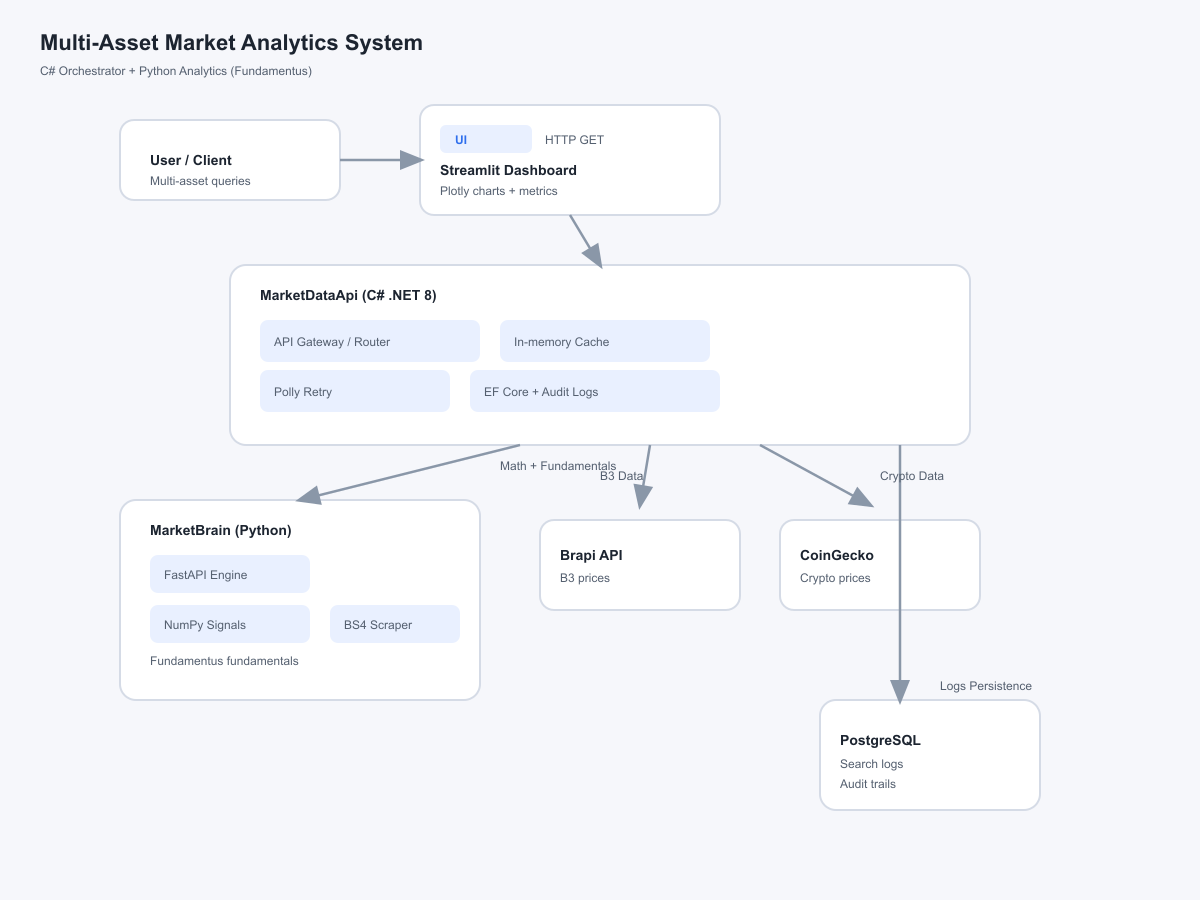
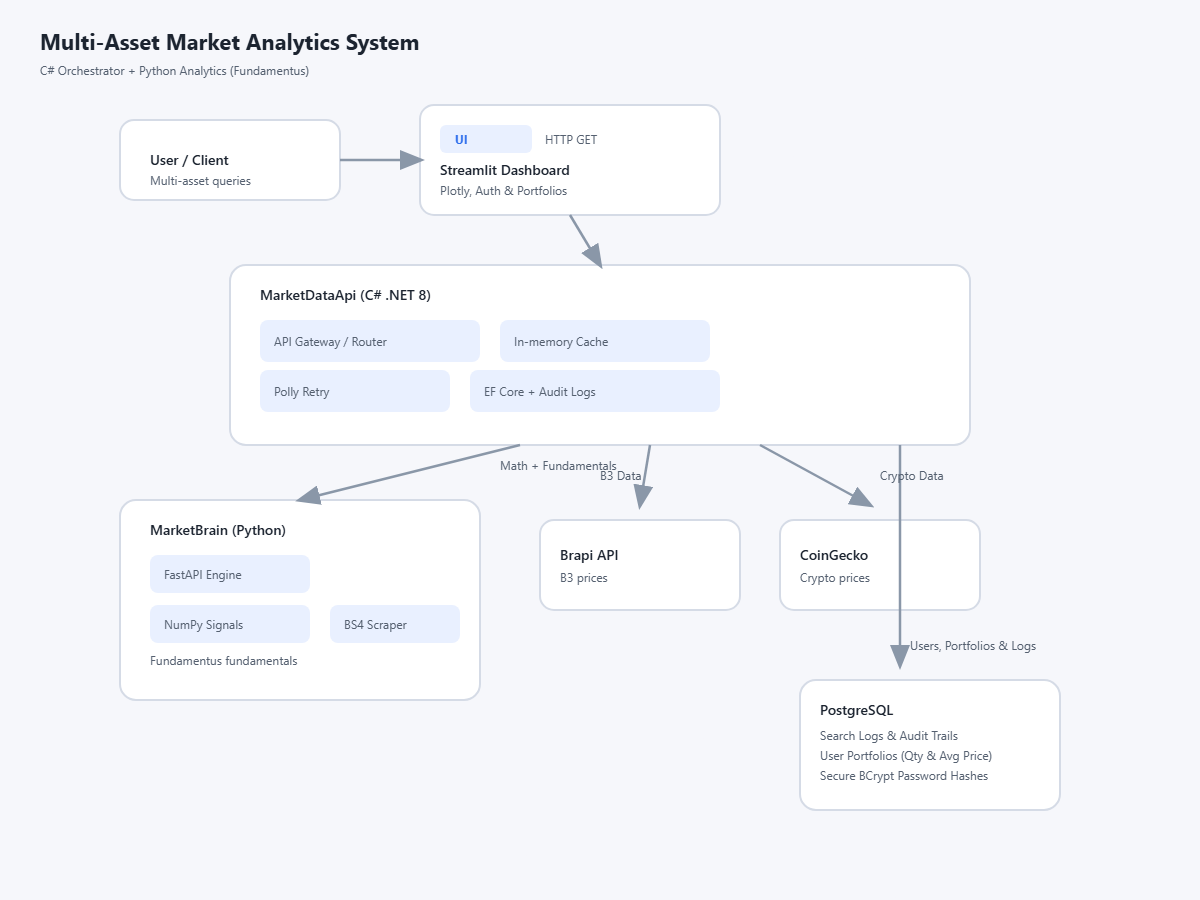
docs: update architecture diagram and README with portfolio features

diff --git a/README.md b/README.md
@@ -1,6 +1,6 @@
 # 📊 Multi-Asset Market Analytics System
 
-A production-style, polyglot microservices system to **fetch, persist, and analyze** both **Cryptocurrencies** and **B3 Stocks/REITs** in near real-time.
+A production-style, polyglot microservices system to **fetch, persist, and analyze** both **Cryptocurrencies** and **B3 Stocks/REITs** in near real-time, featuring secure **User Portfolios (Wallets)** and a **Dynamic Analytics Dashboard**.
 
 ## 🧭 Overview
 
@@ -11,9 +11,11 @@ This project follows strict **Separation of Concerns** by splitting transactiona
 ![Architecture Diagram](docs/architecture-clean.png)
 
 1. **Orchestrator & API Gateway (C# / ASP.NET Core 8)**
-   - Acts as the single entry point for the frontend, routing requests using the Factory Pattern (`IMarketDataService`).
+   - Acts as the single entry point, routing requests using the Factory Pattern (`IMarketDataService`).
    - Handles real-time data ingestion (CoinGecko for crypto, Brapi for B3).
    - **Tolerant Reader Proxy:** Proxies fundamental data requests securely to the internal Python engine.
+   - **Secure Authentication:** Manages user registration and sign-in using `BCrypt.Net-Next` to securely salt and hash passwords before storing them.
+   - **Portfolio Management:** Orchestrates user assets. Whenever a user buys more of an existing asset, the API automatically calculates the **Weighted Average Price** (Cost Basis) and consolidates holdings.
    - Persistence, audit logging, and in-memory caching (up to 10 minutes for fundamentals) to prevent rate-limiting.
    - Resilient HTTP clients configured with **Polly**.
 
@@ -24,16 +26,21 @@ This project follows strict **Separation of Concerns** by splitting transactiona
    - **Trading Signals:** Computes trend, percentage change, and volatility using NumPy.
 
 3. **Data Visualization (Python / Streamlit)**
-   - Interactive dashboard with multi-asset comparisons and Plotly charts.
+   - **Interactive User Authentication:** Login and signup forms right in the sidebar to secure personalized dashboards.
+   - **Dynamic Portfolio Dashboard (The Wallet):** Fetches the user's active holdings from the database, calculating real-time portfolio value and total profit/loss (P&L %) using live market prices.
+   - **Asset Segregation:** Displays assets cleanly divided into **Stocks & REITs** (BRL) and **Cryptocurrencies** (USD) tables.
+   - **Asset Allocation Chart:** Renders an interactive Plotly Donut Chart representing the user's holdings based on current market value.
+   - **Context-Aware Sidebar:** Dynamically toggles forms (hides 'Add to Portfolio' when searching markets, and hides 'Market Search' when looking at the wallet) to ensure a clean, modern user experience.
    - **Dynamic Fallback Logic:** If a ticker ends with `11` (e.g., TAEE11), the UI tries FII first and automatically falls back to Stock seamlessly if needed.
 
 4. **Infrastructure & Persistence Layer (Docker + PostgreSQL)**
    - The entire stack is orchestrated via `docker-compose` within a private Docker Network.
+   - Stores search logs, secure user credentials, and active portfolios using Entity Framework Core (Code-First approach).
    - **Race Condition Prevention:** Healthchecks ensure the C# API waits for PostgreSQL to be healthy before applying EF Core code-first migrations on startup.
 
 ## 🧰 Tech Stack
 
-- **Transactional Backend:** C# .NET 8, ASP.NET Core Minimal APIs, Polly
+- **Transactional Backend:** C# .NET 8, ASP.NET Core Minimal APIs, Polly, BCrypt.Net-Next
 - **Analytical/Scraping:** Python 3.11, FastAPI, Pydantic, NumPy, BeautifulSoup4
 - **Database:** PostgreSQL 15
 - **ORM:** Entity Framework Core
@@ -45,59 +52,78 @@ This project follows strict **Separation of Concerns** by splitting transactiona
 Before running the app, configure your environment variables:
 
 1. Create a `.env` file in the root directory (where the `docker-compose.yml` is located) and add your credentials:
-```bash
-POSTGRES_USER=your_user
+
+POSTGRES_USER=postgres
 POSTGRES_PASSWORD=your_password
 POSTGRES_DB=multiassetdb
 BRAPI_API_KEY=your_brapi_api_key
-````
-> 🔒 Security note: Keep .env and appsettings.json files out of source control. Never commit production secrets.
- 
-## ▶ How to Run
-Thanks to full containerization, spinning up the entire ecosystem (Database, C# API Gateway, Python Engine, and Streamlit UI) takes only a single command.
 
-```bash
+> 🔒 **Security note:** Keep `.env` and `appsettings.json` files out of source control. Never commit production secrets.
+
+## ▶ How to Run
+
+Thanks to full containerization, spinning up the entire ecosystem takes only a single command.
+
 docker-compose up -d --build
-```
+
 Wait a few seconds for the database to become healthy and the C# API to run its migrations. Then, access the application:
-Streamlit Dashboard: 
+- **Streamlit Dashboard:** 
 ```bash
 http://localhost:8501
-````
-C# Swagger (API Gateway): 
+```
+- **C# Swagger (API Gateway):** 
 ```bash
 http://localhost:5091/swagger
 ```
-> (Note for Developers: If you wish to use breakpoints or hot-reload, start only the database via Docker (docker-compose up -d db) and run the C# and Python services manually using your IDE).
 
+*(**Note for Developers:** If you wish to use breakpoints or hot-reload, start only the database via Docker (`docker-compose up -d db`) and run the C# and Python services manually using your IDE).*
 
 ## 🔌 API Endpoints (Gateway)
-** All requests should be routed through the C# API Gateway (Port 5091): 
-Crypto Price/History:
+
+All requests should be routed through the C# API Gateway (Port `5091`):
+
+- **User Registration:** (POST) 
+```bash
+http://localhost:5091/users/register
+```
+- **User Login:** (POST) 
+```bash
+http://localhost:5091/users/login
+```
+- **Add to Portfolio:** (POST) 
+```bash
+http://localhost:5091/portfolios/add
+```
+- **Get Portfolio:** 
+```bash
+http://localhost:5091/portfolios/{userId}
+```
+- **Crypto Price/History:** 
 ```bash
 http://localhost:5091/price/crypto/bitcoin/history
 ```
-Stock Price/History: 
+- **Stock Price/History:** 
 ```bash
 http://localhost:5091/price/stock/petr4/history
 ```
-
-Stock Fundamentals: 
+- **Stock Fundamentals:** 
 ```bash
 http://localhost:5091/fundamentals/stock/petr4
 ```
-
-FII Fundamentals:
+- **FII Fundamentals:** 
 ```bash
 http://localhost:5091/fundamentals/fii/mxrf11
 ```
-Audit Logs: 
+- **Audit Logs:** 
 ```bash
 http://localhost:5091/logs
 ```
+
 ## 📌 Notes on Fundamentals Parsing
-- dividend_payout can be derived when there is no explicit label using REND. DISTRIBUÍDO / FFO.
+
+- `dividend_payout` can be derived when there is no explicit label using `REND. DISTRIBUÍDO / FFO`.
 - FII classification uses text signals and known overrides for ambiguous tickers to prevent misclassification of Paper and FOFs.
-  
+
 ## 📜 License
-This project is distributed under the MIT License. See LICENSE for details.
+
+This project is distributed under the MIT License. See [LICENSE](LICENSE) for details.
